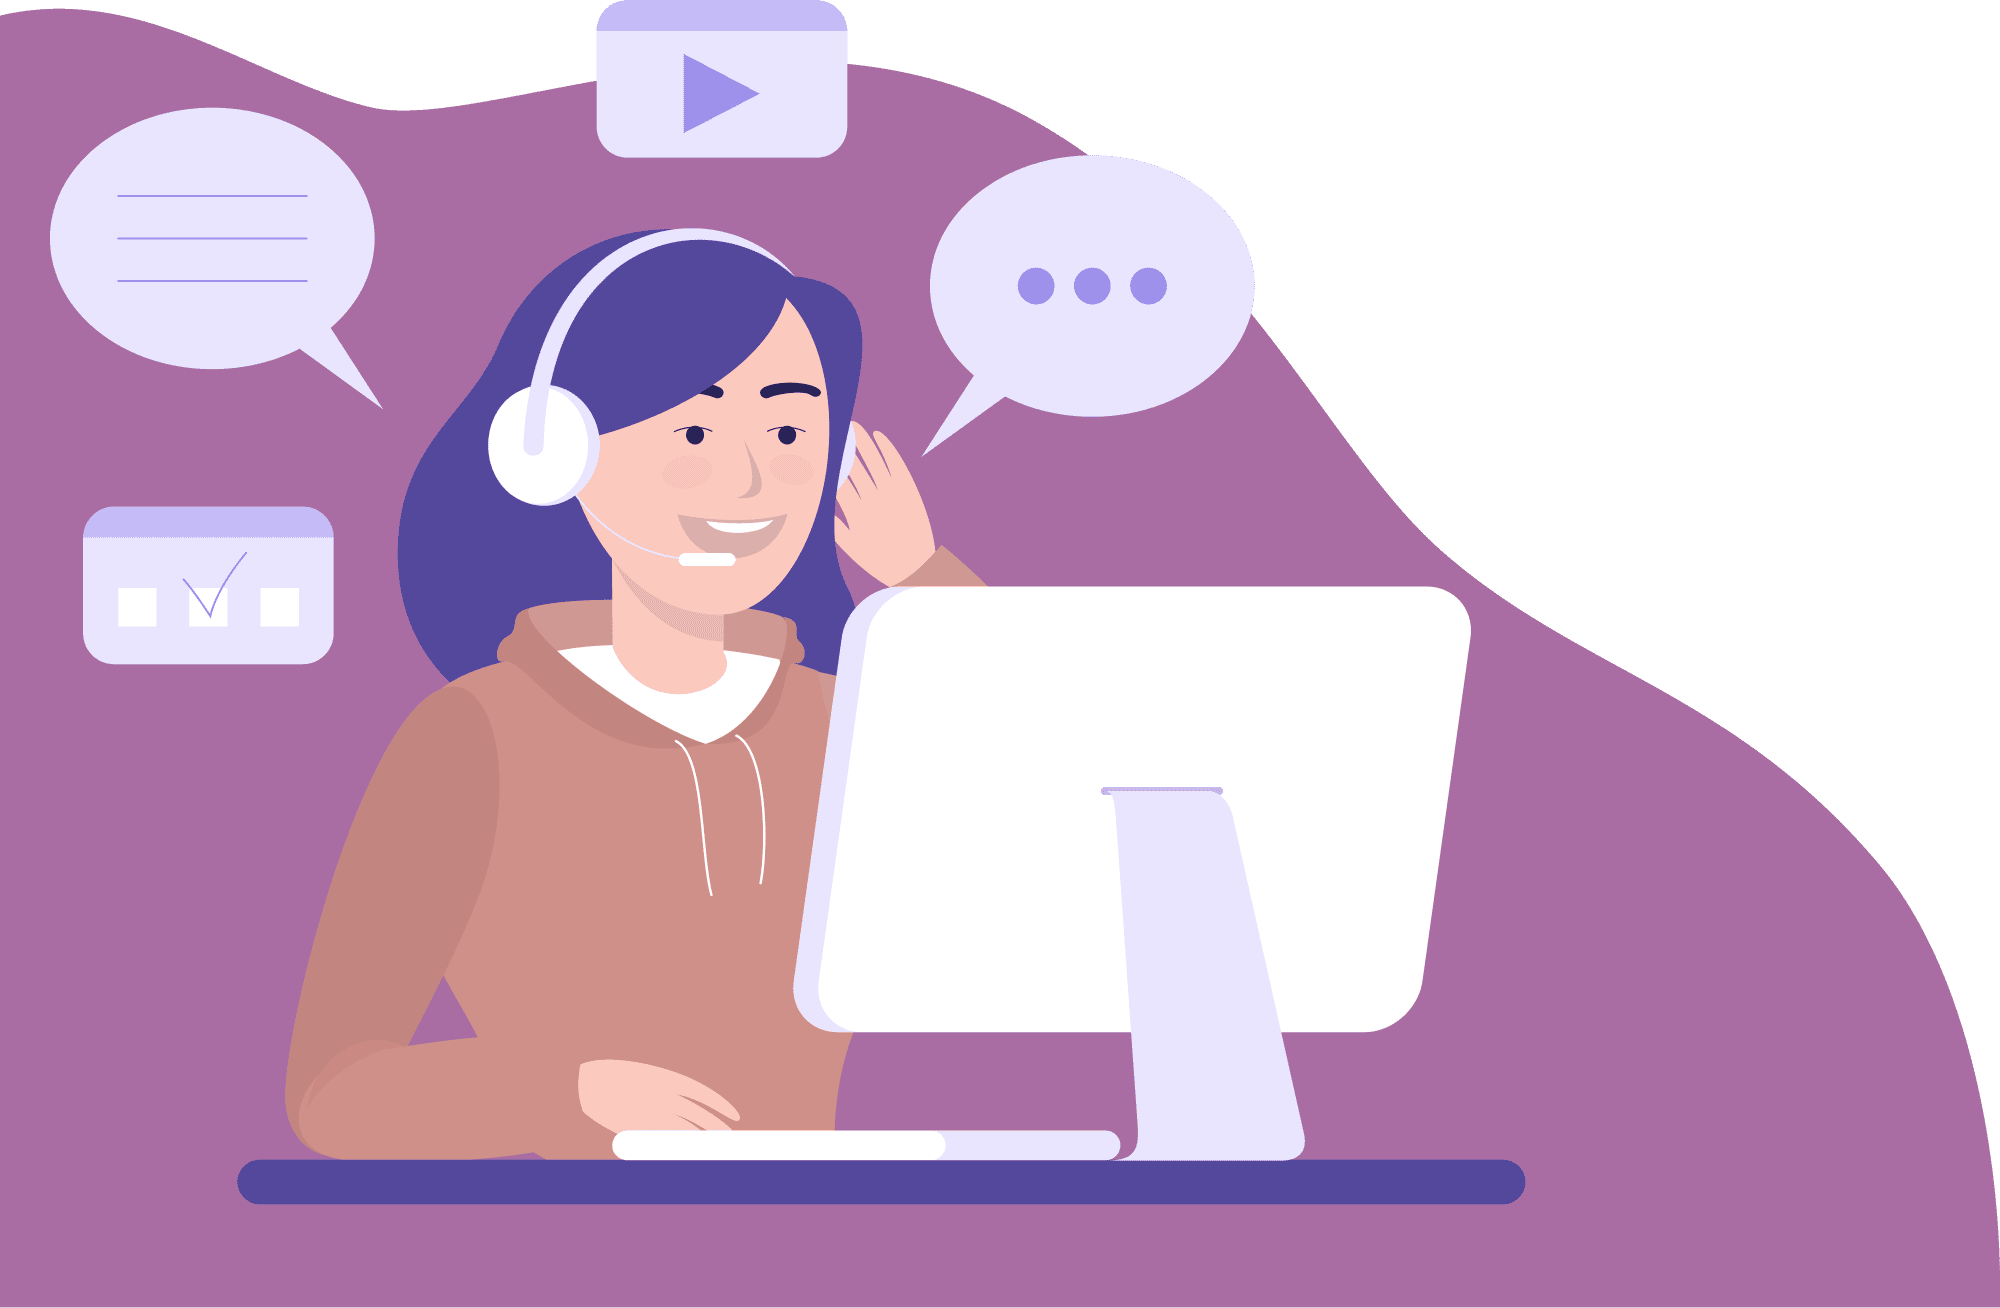
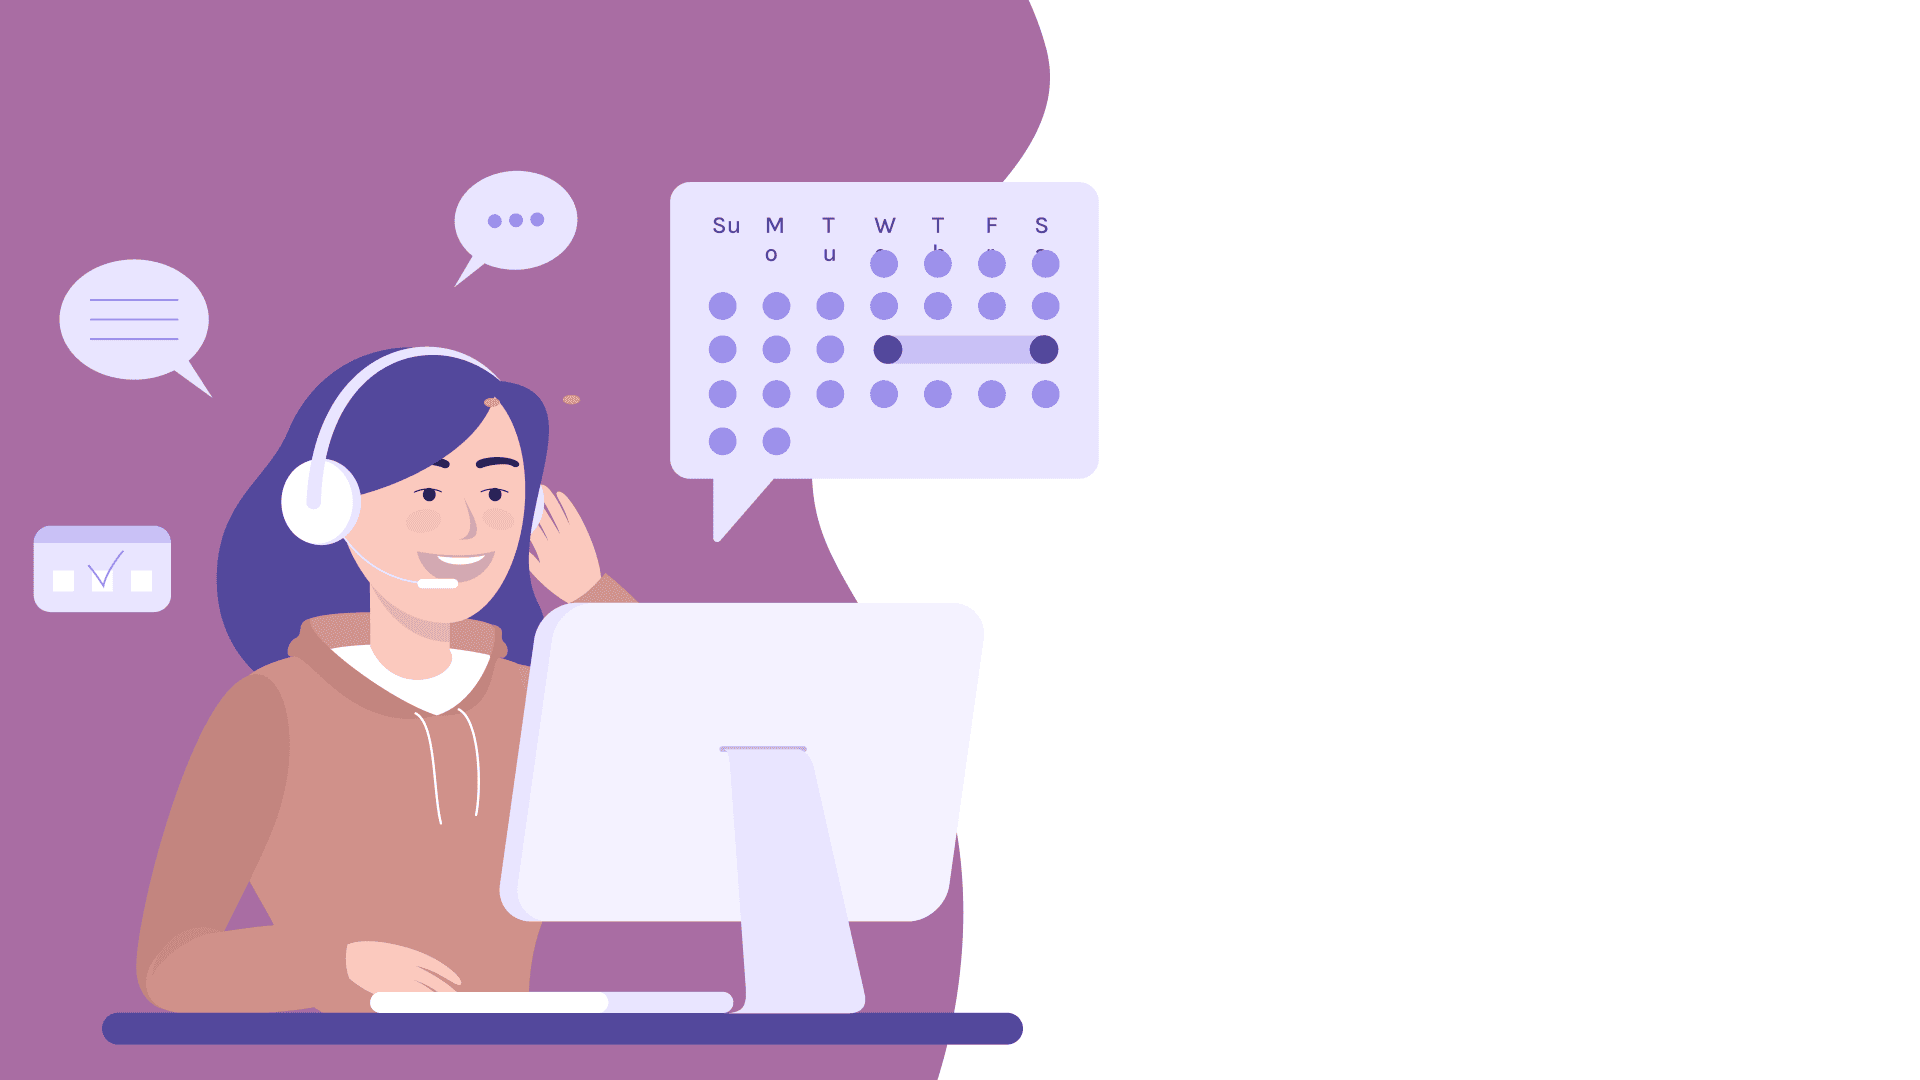
welcome-page responsive done

diff --git a/src/containers/welcomePage/welcomePage.css b/src/containers/welcomePage/welcomePage.css
@@ -1,7 +1,96 @@
+.image-container {
+   display: none;
+}
+
+.welcome-page-content {
+    align-items: flex-end;
+}
+
 .welcome-page {
-    justify-content: center;
     height: 100vh;
-    background-image: url('../../images/background.png');
-    background-size: contain;
-    background-repeat: no-repeat;
+    position: fixed;
+}
+
+.welcome-content {
+    max-width: 50%;
+    z-index: 10;
+}
+
+.back-desktop {
+    position: absolute;
+    width: auto;
+    height: 100vh;
+}
+
+.welcome-content button {
+    margin-top: 20px;
+    border-radius: 10px;
+    font-size: 20px;
+}
+
+.welcome-content h1 {
+    text-align: center;
+    font-size: 48px;
+    width: 90%;
+    color: #53489C;
+}
+
+.welcome-content p {
+    font-size: 24px;
+}
+
+@media screen and (max-width: 768px) {
+
+    .welcome-page {
+        justify-content: center;
+        height: 100vh;
+        position: fixed;
+    }
+
+    .welcome-page-content {
+        height: 100vh;
+        justify-content: space-between;
+    }
+
+    .welcome-content {
+        max-width: 100%;
+        height: 40%;
+        justify-content: center;
+        padding-top: 20%;
+        padding-bottom: 20px;
+    }
+
+    .welcome-content h1 {
+        text-align: center;
+        font-size: 32px;
+        width: 90%;
+        color: #53489C;
+    }
+
+    .welcome-content p {
+        text-align: center;
+        font-size: 18px;
+        width: 100%
+    }
+
+    .welcome-content button {
+        /* margin-top: 20px; */
+        background-color: #53489C;
+        /* border-radius: 10px; */
+    }
+
+    .back-mobile {
+        height: auto;
+        width: 100%;
+    }
+
+    .back-desktop {
+        display: none;
+    }
+
+    .image-container {
+        display: flex;
+        min-height: 45%;
+        width: 100%;
+    }
 }

diff --git a/src/containers/header/header.css b/src/containers/header/header.css
@@ -7,6 +7,10 @@
     z-index: 10;
 }
 
+.header-welcome {
+    background-color: transparent;
+}
+
 .header-buttons {
     width: 50%;
     justify-content: flex-end;
@@ -34,4 +38,55 @@
 .header button {
     background-color: white;
     color: #A96DA3;
+}
+
+.header-welcome button {
+    background-color: #53489C;
+    color: white;
+    margin-right: 20px;
+    border-radius: 10px;
+}
+
+.header-welcome button.button-login {
+    background-color: white;
+    color: #53489C;
+    border: 1px solid #53489C;
+    margin-right: 20px;
+}
+
+
+.header-welcome .header-buttons {
+    margin-right: 10px;
+}
+
+@media (max-width: 768px) {
+
+
+    .header-welcome button {
+        background-color: #A96DA3;
+        color: white;
+        margin-right: 10px;
+        padding: 5px 15px;
+    }
+        
+    
+    .header-welcome button.button-login {
+        background-color: white;
+        color: #A96DA3;
+        border: 1px solid #A96DA3;
+        margin-right: 10px;
+        padding: 4px 15px;
+    }
+    
+    
+    .header-welcome h2 {
+        color: #A96DA3;
+        font-size: 24px;
+        margin-left: 15px;
+    }
+    
+    .header-welcome .header-buttons {
+        margin-right: 5px;
+    }
+    
 }

diff --git a/src/containers/welcomePage/WelcomePage.js b/src/containers/welcomePage/WelcomePage.js
@@ -1,10 +1,24 @@
 import React from "react";
-import '../welcomePage/welcomePage.css'
+import '../welcomePage/welcomePage.css';
+import backMobile from '../../images/back-mobile.png';
+import backDesktop from '../../images/background.png';
 
-export const WelcomePage = () => {
+export const WelcomePage = ( {handleLoginLogout} ) => {
     return (
-        <div className="welcome-page div-column">
-            <h2>WelcomePage</h2>
+        <div className="welcome-page div-row">
+            <img src={backDesktop} alt='' className="back-desktop"/>
+
+            <div className="div-column welcome-page-content">
+                <div className="welcome-content div-column">
+                    <h1>Appointment Planner</h1>
+                    <p>For your administrators</p>
+                    <button className="button-login" onClick={handleLoginLogout}>Let's try!</button>
+                </div>
+                <div className="image-container div-column">
+                        <img src={backMobile} alt='' className="back-mobile" />
+                </div>
+            </div>      
         </div>
     )
 }
+

diff --git a/src/containers/header/header.js b/src/containers/header/header.js
@@ -4,18 +4,18 @@ import '../header/header.css'
 export const Header = ({ handleLoginLogout, isLogin }) => {
     if (!isLogin) {
         return (
-            <div className="header div-row">
-                <h2>Appointment Planner</h2>
+            <div className="header header-welcome div-row">
+                <h2>A-Planner</h2>
                 <div className="header-buttons div-row">
                     <button className="button-login" onClick={handleLoginLogout}>Login</button>
-                    <button>SignUp</button>
+                    <button onClick={handleLoginLogout}>SignUp</button>
                 </div>
             </div>
         )
     } else {
         return (
             <div className="header div-row">
-                <h2>Appointment Planner</h2>
+                <h2>A-Planner</h2>
                 <div className="header-buttons div-row">
                     <button className="button-login" onClick={handleLoginLogout}>Logout</button>
                 </div>

diff --git a/src/App.js b/src/App.js
@@ -53,7 +53,7 @@ function App() {
       <Route path={ROUTES.APPFORM} element={<AppointmentFormPage appointments={appointments} contacts={contacts} addAppointment={addAppointment} />} />
       <Route path={ROUTES.CONTACTS} element={ <ContactsPage contacts={contacts} addContact={addContact}/> /* Add props to ContactsPage */ }/>
       <Route path={ROUTES.APPOINTMENTS} element={ <AppointmentsPage appointments={appointments} contacts={contacts} addAppointment={addAppointment}/> /* Add props to AppointmentsPage */ }/>
-      <Route path={ROUTES.WELCOME} element={WelcomePage} />
+      <Route path={ROUTES.WELCOME} element={<WelcomePage handleLoginLogout={handleLoginLogout}/>} />
     </Route>
   ));
   

diff --git a/src/components/Roots/Root.js b/src/components/Roots/Root.js
@@ -21,10 +21,10 @@ function Root( {handleLoginLogout, isLogin} ) {
         );
     } else {
         return (
-            <>
+            <div className="root-welcome">
                 <Header handleLoginLogout={handleLoginLogout} isLogin={isLogin} />
-                <WelcomePage />
-            </>
+                <WelcomePage handleLoginLogout={handleLoginLogout}/>
+            </div>
         )
     }
 

diff --git a/public/index.css b/public/index.css
@@ -7,6 +7,10 @@
   font-family: "Open Sans", sans-serif;
 }
 
+.root-welcome {
+  height: 100vh;
+}
+
 nav > a {
   font-style: normal;
   font-weight: normal;
@@ -87,4 +91,15 @@ select {
 
 .tile-container {
   margin-bottom: 20px;
+}
+
+.div-row {
+  flex-direction: row;
+  flex-wrap: wrap;
+  align-items: center;
+}
+
+.div-column {
+  flex-direction: column;
+  align-items: center;
 }

diff --git a/src/App.css b/src/App.css
@@ -2,6 +2,12 @@
 
 body {
     margin: 0;
+    overflow-x: hidden;
+    font-size: 1.5vw;    
+}
+
+* {
+    box-sizing: border-box;
 }
 
 #root {
@@ -38,13 +44,3 @@ button:hover {
     cursor: pointer;
 }
 
-.div-row {
-    flex-direction: row;
-    flex-wrap: wrap;
-    align-items: center;
-}
-
-.div-column {
-    flex-direction: column;
-    align-items: center;
-}
